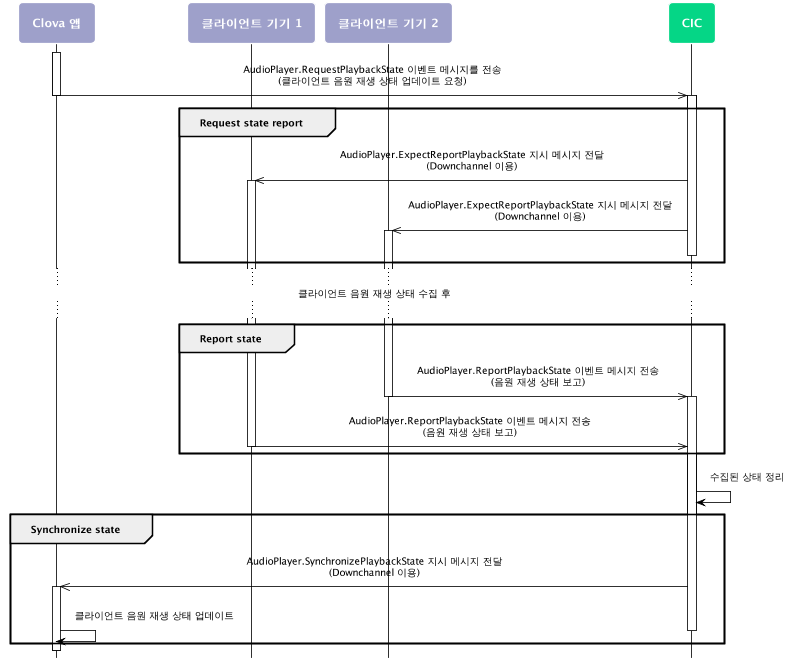
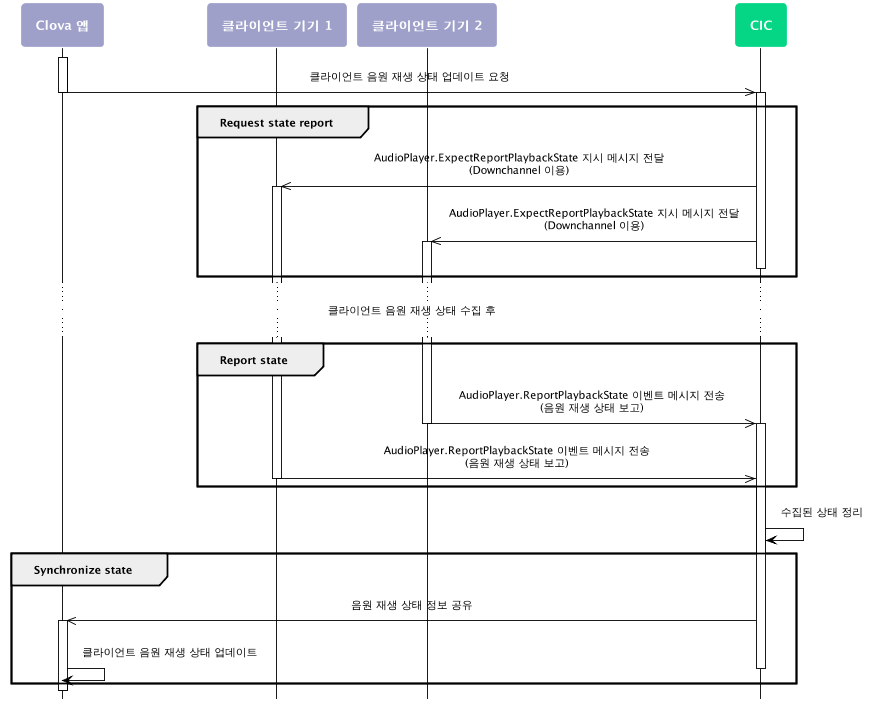
Apply conditional content for Clova app exclusive specification.
Former-commit-id: a7ee2e3696418add6cd44a5f21b69553e90da479 [formerly be5d0ca43ed55bfa67b8e9b32bf50e84269a3fc0]
Former-commit-id: 14217f2a47e1bdb42763026ed2de5a203d8245f7

diff --git a/ko/CIC/References/CICInterface/TemplateRuntime.md b/ko/CIC/References/CICInterface/TemplateRuntime.md
@@ -41,7 +41,7 @@ TemplateRuntime 인터페이스는 클라이언트나 CIC가 미디어 플레이
 * [`TemplateRuntime.RequestPlayerInfo`](#RequestPlayerInfo)
 
 ## LikeCommandIssued event {#LikeCommandIssued}
-사용자가 클라이언트 기기에서 미디어 플레이어에서 특정 미디어에 대해 좋아요 버튼(Like)을 누른 경우 클라이언트는 이 이벤트 메시지를 CIC에게 전송해야 합니다. 이 이벤트 메시지를 받은 Clova는 상황에 맞는 지시 메시지를 클라이언트에게 전송합니다.
+사용자가 클라이언트 기기에서 미디어 플레이어에서 특정 미디어에 대해 좋아요 버튼(Like)을 누른 경우 클라이언트는 이 이벤트 메시지를 CIC에게 전송해야 합니다. 이 이벤트 메시지를 받은 CIC는 상황에 맞는 지시 메시지를 클라이언트에게 전송합니다.
 
 
 ### Context fields
@@ -93,14 +93,7 @@ TemplateRuntime 인터페이스는 클라이언트나 CIC가 미디어 플레이
 
 ## RenderPlayerInfo directive {#RenderPlayerInfo}
 
-CIC가 클라이언트에게 미디어 플레이어에 표시할 재생 목록, 앨범 이미지, 가사와 같은 재생 메타 정보를 전달하고 이를 표시하도록 지시합니다. 다음과 같이 두 가지 상황에 이 지시 메시지가 전달됩니다.
-
-* 사용자가 음악 재생을 요청한 경우
-* 클라이언트가 재생 메타 정보를 요청한 경우
-
-사용자가 음악 재생을 요청한 경우 클라이언트는 [`AudioPlayer.Play`]() 지시 메시지와 함께 `TemplateRuntime.RenderPlayerInfo` 지시 메시지를 수신하게 됩니다. [`AudioPlayer.Play`](/CIC/References/CICInterface/AudioPlayer.md#Play) 지시 메시지는 재생해야 할 미디어 스트림 정보를 가지고 있으며, `TemplateRuntime.RenderPlayerInfo` 지시 메시지는 재생해야 하는 미디어와 추후 재생해야 하는 미디어의 재생 메타 정보를 담고 있습니다. 클라이언트는 `TemplateRuntime.RenderPlayerInfo` 지시 메시지의 재생 메타 정보를 사용자에게 제공하므로써 재생 목록 보여줄 수 있을 뿐만 아니라 사용자가 목록에 있는 특정 미디어를 요청하거나 좋아요([`TemplateRuntime.LikeCommandIssued`](#LikeCommandIssued)), 좋아요 취소([`TemplateRuntime.UnlikeCommandIssued`](#UnlikeCommandIssued))와 같은 동작을 수행할 때 이를 처리할 수 있는 기반 데이터를 제공합니다.
-
-원격 제어 등을 위해 미디어 콘텐츠를 직접 재생하고 있는 클라이언트가 아니더라도 [`TemplateRuntime.RequestPlayerInfo`](#RequestPlayerInfo)재생 메타 정보를 CIC에 요청할 수 있습니다.
+CIC가 클라이언트에게 미디어 플레이어에 표시할 재생 목록, 앨범 이미지, 가사와 같은 재생 메타 정보를 전달하고 이를 표시하도록 지시합니다. 사용자가 음악 재생을 요청한 경우 클라이언트는 [`AudioPlayer.Play`](/CIC/References/CICInterface/AudioPlayer.md#Play) 지시 메시지를 받아 미디어를 재생하게 됩니다. 이때, 디스플레이 장치가 있는 클라이언트라면 필요에 따라 미디어 플레이어에 재생 관련 정보를 표현해야 할 수 있습니다. 이때, [`TemplateRuntime.RequestPlayerInfo`](#RequestPlayerInfo) 이벤트 메시지를 통해 재생 메타 정보를 CIC에 요청할 수 있으며, `TemplateRuntime.RenderPlayerInfo` 지시 메시지를 수신할 수 있습니다. `TemplateRuntime.RenderPlayerInfo` 지시 메시지는 현재 재생해야 하는 미디어 콘텐츠와 추후 재생해야 하는 미디어 콘텐츠의 재생 메타 정보를 담고 있습니다. 클라이언트는 `TemplateRuntime.RenderPlayerInfo` 지시 메시지의 재생 메타 정보를 사용자에게 제공하므로써 현재 재생 미디어의 메타 정보 및 재생 목록을 표시할 수 있습니다. 뿐만 아니라 사용자가 목록에 있는 특정 미디어를 재생하도록 요청하거나 좋아요([`TemplateRuntime.LikeCommandIssued`](#LikeCommandIssued)), 좋아요 취소([`TemplateRuntime.UnlikeCommandIssued`](#UnlikeCommandIssued))와 같은 동작을 수행할 때 이를 처리할 수 있는 기반 데이터(`token`)를 제공합니다.
 
 ### Payload fields
 | 필드 이름       | 자료형    | 필드 설명                     | 포함 여부 |
@@ -238,7 +231,7 @@ CIC가 클라이언트에게 미디어 플레이어에 표시할 재생 목록, 
 * [`TemplateRuntime.UnlikeCommandIssued`](#UnlikeCommandIssued)
 
 ## RequestPlayerInfoIssued event {#RequestPlayerInfoIssued}
-클라이언트가 미디어 플레이어에 표시할 재생 목록, 앨범 이미지, 가사와 같은 재생 메타 정보를 CIC에게 요청합니다. 이 이벤트 메시지를 CIC에게 전송하면 Clova는 [`TemplateRuntime.RenderPlayerInfo`](#RenderPlayerInfo) 지시 메시지를 클라이언트에게 전송합니다.
+클라이언트가 미디어 플레이어에 표시할 재생 목록, 앨범 이미지, 가사와 같은 재생 메타 정보를 CIC에게 요청합니다. 이 이벤트 메시지를 CIC에게 전송하면 CIC는 [`TemplateRuntime.RenderPlayerInfo`](#RenderPlayerInfo) 지시 메시지를 클라이언트에게 전송합니다.
 
 
 ### Context fields
@@ -292,7 +285,7 @@ CIC가 클라이언트에게 미디어 플레이어에 표시할 재생 목록, 
 * [`TemplateRuntime.RenderPlayerInfo`](#RenderPlayerInfo)
 
 ## UnlikeCommandIssued event {#UnlikeCommandIssued}
-사용자가 클라이언트 기기에서 미디어 플레이어에서 특정 미디어에 대해 좋아요 취소 버튼(Unlike)을 누른 경우 클라이언트는 이 이벤트 메시지를 CIC에게 전송해야 합니다. 이 이벤트 메시지를 받은 Clova는 상황에 맞는 지시 메시지를 클라이언트에게 전송합니다.
+사용자가 클라이언트 기기에서 미디어 플레이어에서 특정 미디어에 대해 좋아요 취소 버튼(Unlike)을 누른 경우 클라이언트는 이 이벤트 메시지를 CIC에게 전송해야 합니다. 이 이벤트 메시지를 받은 CIC는 상황에 맞는 지시 메시지를 클라이언트에게 전송합니다.
 
 
 ### Context fields

diff --git a/ko/CIC/References/CICInterface/Index_for_Events.md b/ko/CIC/References/CICInterface/Index_for_Events.md
@@ -6,7 +6,7 @@
 | Alerts            | [`AlertStopped`](/CIC/References/CICInterface/Alerts.md#AlertStopped)                 | 클라이언트가 알람이 중지되었음을 CIC로 보고하기 위해 사용됩니다. |
 | Alerts            | [`DeleteAlertFailed`](/CIC/References/CICInterface/Alerts.md#DeleteAlertFailed)       | 클라이언트가 클라이언트에 설정된 특정 알람을 삭제하는데 실패했음을 CIC로 보고하기 위해 사용됩니다. |
 | Alerts            | [`DeleteAlertSucceeded`](/CIC/References/CICInterface/Alerts.md#DeleteAlertSucceeded) | 클라이언트가 클라이언트에 설정된 특정 알람을 삭제하는데 성공했음을 CIC로 보고하기 위해 사용됩니다. |
-| Alerts            | [`RequestAlertStop`](/CIC/References/CICInterface/Alerts.md#RequestAlertStop)         | 클라이언트가 현재 울리고 있는 알람을 중지하도록 Clova에게 요청할 때 사용됩니다.  |
+| Alerts            | [`RequestAlertStop`](/CIC/References/CICInterface/Alerts.md#RequestAlertStop)         | 클라이언트가 현재 울리고 있는 알람을 중지하도록 CIC에게 요청할 때 사용됩니다.  |
 | Alerts            | [`RequestSynchronizeAlert`](/CIC/References/CICInterface/Alerts.md#RequestSynchronizeAlert) | 클라이언트가 Clova의 클라우드 환경에 저장된 사용자의 알람 정보를 동기화해야 할 때 이 이벤트 메시지를 CIC로 전송합니다. |
 | Alerts            | [`SetAlertFailed`](/CIC/References/CICInterface/Alerts.md#SetAlertFailed)             | 클라이언트가 특정 알람을 추가 또는 수정하는데 실패했음을 CIC로 보고하기 위해 사용됩니다. |
 | Alerts            | [`SetAlertSucceeded`](/CIC/References/CICInterface/Alerts.md#SetAlertSucceeded)       | 클라이언트가 특정 알람을 추가 또는 수정하는데 성공했음을 CIC로 보고하기 위해 사용됩니다. |
@@ -19,8 +19,8 @@
 | AudioPlayer       | [`ProgressReportIntervalPassed`](/CIC/References/CICInterface/AudioPlayer.md#ProgressReportPositionPassed)| 오디오 스트림 재생이 시작된 후 지정된 간격마다 현재 재생 상태([`AudioPlayer.PlaybackState`](/CIC/References/Context_Objects.md#PlaybackState))를 CIC로 보고하기 위해 사용됩니다. 각 오디오 스트림의 보고 간격은 [`AudioPlayer.Play`](/CIC/References/CICInterface/AudioPlayer.md#Play) 지시 메시지가 클라이언트로 전달될 때 확인할 수 있습니다.|
 | AudioPlayer       | [`ProgressReportPositionPassed`](/CIC/References/CICInterface/AudioPlayer.md#ProgressReportPositionPassed) | 오디오 스트림 재생이 시작된 후 지정된 보고 시점에 현재 재생 상태([`AudioPlayer.PlaybackState`](/CIC/References/Context_Objects.md#PlaybackState))를 CIC로 보고하기 위해 사용됩니다. 각 오디오 스트림의 보고 시점은 [`AudioPlayer.Play`](/CIC/References/CICInterface/AudioPlayer.md#Play) 지시 메시지가 클라이언트로 전달될 때 확인할 수 있습니다.|
 | AudioPlayer       | [`ReportPlaybackState`](/CIC/References/CICInterface/AudioPlayer.md#ReportPlaybackState) | 클라이언트의 현재 음원 재생 상태를 CIC로 보고합니다. 클라이언트가 CIC로부터 [`ExpectReportPlaybackState`](/CIC/References/CICInterface/AudioPlayer.md#ExpectReportPlaybackState) 지시 메시지를 받은 경우 `AudioPlayer.ReportPlaybackState` 이벤트 메시지를 CIC로 전송해야 합니다.  |
-| AudioPlayer       | [`RequestPlaybackState`](/CIC/References/CICInterface/AudioPlayer.md#RequestPlaybackState) | 클라이언트의 음원 재생 상태를 CIC에게 요청합니다. CIC는 `AudioPlayer.ReqeustPlaybackState` 이벤트 메시지를 전달받으면 사용자 계정에 등록된 모든 또는 특정 클라이언트에게 [`AudioPlayer.ExpectReportPlaybackState`](/CIC/References/CICInterface/AudioPlayer.md#ExpectReportPlaybackState) 지시 메시지를 전송합니다.  |
-| AudioPlayer       | [`StreamRequested`](/CIC/References/CICInterface/AudioPlayer.md#StreamRequested) | 오디오 스트림 재생을 위해 CIC로 스트리밍 URL과 같은 추가 정보를 요청하는 이벤트 메시지입니다. |
+{% if book.TargetReaderType == "Internal" %}| AudioPlayer       | [`RequestPlaybackState`](/CIC/References/CICInterface/AudioPlayer.md#RequestPlaybackState) | 클라이언트의 음원 재생 상태를 CIC에게 요청합니다. CIC는 `AudioPlayer.ReqeustPlaybackState` 이벤트 메시지를 전달받으면 사용자 계정에 등록된 모든 또는 특정 클라이언트에게 [`AudioPlayer.ExpectReportPlaybackState`](/CIC/References/CICInterface/AudioPlayer.md#ExpectReportPlaybackState) 지시 메시지를 전송합니다.  |
+| AudioPlayer       | [`StreamRequested`](/CIC/References/CICInterface/AudioPlayer.md#StreamRequested) | 오디오 스트림 재생을 위해 CIC로 스트리밍 URL과 같은 추가 정보를 요청하는 이벤트 메시지입니다. |{% else %}| AudioPlayer       | [`StreamRequested`](/CIC/References/CICInterface/AudioPlayer.md#StreamRequested) | 오디오 스트림 재생을 위해 CIC로 스트리밍 URL과 같은 추가 정보를 요청하는 이벤트 메시지입니다. |{% endif %}
 | Clova              | [`ProcessDelegatedEvent`](/CIC/References/CICInterface/Clova.md#ProcessDelegatedEvent)                          | 클라이언트가 [위임된 사용자 요청](/CIC/Guides/Interact_with_CIC.md#HandleDelegation)에 대한 결과를 CIC로부터 받기 위해 사용됩니다.  |
 | DeviceControl     | [`ActionExecuted`](/CIC/References/CICInterface/DeviceControl.md#ActionExecuted) | 클라이언트가 기기 제어를 정상적으로 수행했음을 보고하기 위해 사용됩니다.                               |
 | DeviceControl     | [`ActionFailed`](/CIC/References/CICInterface/DeviceControl.md#ActionFailed) | 클라이언트는 기기 제어를 수행할 수 없거나 수행에 실패했음을 CIC에 보고하기 위해 사용됩니다.                   |

diff --git a/ko/CIC/References/CICInterface/Index_for_Directives.md b/ko/CIC/References/CICInterface/Index_for_Directives.md
@@ -10,7 +10,8 @@
 | AudioPlayer        | [`ExpectReportPlaybackState`](/CIC/References/CICInterface/AudioPlayer.md#ExpectReportPlaybackState) | 클라이언트에게 현재 재생 상태를 보고하도록 지시합니다. 클라이언트는 이 지시 메시지를 받으면 [`AudioPlayer.ReportPlaybackState`](/CIC/References/CICInterface/AudioPlayer.md#ReportPlaybackState) 이벤트 메시지를 CIC로 전송해야 합니다. |
 | AudioPlayer        | [`Play`](/CIC/References/CICInterface/AudioPlayer.md#Play)                      | 클라이언트에게 특정 오디오 스트림을 재생하거나 재생 대기열에 추가하도록 지시합니다.                          |
 | AudioPlayer        | [`StreamDeliver`](/CIC/References/CICInterface/AudioPlayer.md#StreamDeliver)    | [`AudioPlayer.StreamRequested`](/CIC/References/CICInterface/AudioPlayer.md#StreamRequested) 이벤트 메시지의 응답이며, 실제 음악 재생이 가능한 오디오 스트림 정보를 수신해야 할 때 사용합니다. |
-| Clova              | [`ExpectLogin`](/CIC/References/CICInterface/Clova.md#ExpectLogin)              | 클라이언트에게 사용자로부터 {{ book.OrientedService }} 계정 인증(login)을 받도록 지시합니다.          |
+{% if book.TargetReaderType == "Internal" %}| AudioPlayer        | [`SynchronizePlaybackState`](/CIC/References/CICInterface/AudioPlayer.md#SynchronizePlaybackState) | 클라이언트의 음원 재생 상태를 동기화하도록 지시합니다. [`AudioPlayer.RequestPlaybackState`](#/CIC/References/CICInterface/AudioPlayer.md#RequestPlaybackState) 이벤트 메시지를 전송했던 클라이언트는 `AudioPlayer.SynchronizePlaybackState` 지시 메시지를 수신하게 됩니다. |
+| Clova              | [`ExpectLogin`](/CIC/References/CICInterface/Clova.md#ExpectLogin)              | 클라이언트에게 사용자로부터 {{ book.OrientedService }} 계정 인증(login)을 받도록 지시합니다.          |{% else %}| Clova              | [`ExpectLogin`](/CIC/References/CICInterface/Clova.md#ExpectLogin)              | 클라이언트에게 사용자로부터 {{ book.OrientedService }} 계정 인증(login)을 받도록 지시합니다.          |{% endif %}
 | Clova              | [`FinishExtension`](/CIC/References/CICInterface/Clova.md#FinishExtension)      | 클라이언트에게 특정 Extension을 종료하도록 지시합니다.                                             |
 | Clova              | [`HandleDelegatedEvent`](/CIC/References/CICInterface/Clova.md#HandleDelegatedEvent) | 클라이언트에게 Clova 앱으로부터 [위임된 사용자의 요청을 처리](/CIC/Guides/Interact_with_CIC.md#HandleDelegation)하도록 지시합니다.   |
 | Clova              | [`Hello`](/CIC/References/CICInterface/Clova.md#Hello)                          | 클라이언트에게 downchannel 연결 설정이 완료되었음을 알립니다.                                       |

diff --git a/ko/CEK/References/ClovaHomeInterface/Error_Interfaces.md b/ko/CEK/References/ClovaHomeInterface/Error_Interfaces.md
@@ -5,7 +5,7 @@ Clova Home extension이 CEK에게 오류를 반환할 때 사용되는 인터페
 | 메시지 이름         | 메시지 타입  | 메시지 설명                                   |
 |------------------|-----------|---------------------------------------------|
 | [`ConditionsNotMetError`](#ConditionsNotMetError)          | Error Response | 대상 기기가 동작하기 위해 특정 조건(상태)이 충족되지 않은 경우 CEK에게 이 메시지를 응답으로 보냅니다. |
-| [`DeviceFailureError`](#DeviceFailureError)                | Error Response | 대상 기기에 결험이 발생하면 CEK에게 이 메시지를 응답으로 보냅니다.              |
+| [`DeviceFailureError`](#DeviceFailureError)                | Error Response | 대상 기기에 결함이 발생하면 CEK에게 이 메시지를 응답으로 보냅니다.              |
 | [`DriverInternalError`](#DriverInternalError)              | Error Response | 내부적인 오류가 발생하면 CEK에게 이 메시지를 응답으로 보냅니다.                |
 | [`ExpiredAccessTokenError`](#ExpiredAccessTokenError)      | Error Response | [사용자 계정 연결](/CEK/Guides/Link_User_Account.md) 시 [인증 서버](/CEK/Guides/Link_User_Account.md#BuildAuthServer)로부터 발급 받은 access token이 만료된 경우 CEK에게 이 메시지를 응답으로 보냅니다.  |
 | [`InvalidAccessTokenError`](#InvalidAccessTokenError)      | Error Response | 사용자가 사용 중인 access token에 대한 권한을 해제한 경우 CEK에게 이 메시지를 전달합니다.         |
@@ -51,7 +51,7 @@ Clova Home extension이 CEK에게 오류를 반환할 때 사용되는 인터페
 * [`NotSupportedInCurrentModeError`](#NotSupportedInCurrentModeError)
 
 ## DeviceFailureError {#DeviceFailureError}
-대상 기기에 결험이 발생하면 CEK에게 이 메시지를 응답으로 보냅니다. CEK가 이 메시지를 전달받으면 미리 준비된 오류 메시지를 클라이언트에 전달합니다.
+대상 기기에 결함이 발생하면 CEK에게 이 메시지를 응답으로 보냅니다. CEK가 이 메시지를 전달받으면 미리 준비된 오류 메시지를 클라이언트에 전달합니다.
 
 ### Payload fields
 

diff --git a/ko/README.md b/ko/README.md
@@ -24,10 +24,9 @@
       <td>v3.6</td><td>2018-04-02</td>
       <td>
         <ul>
-          <li>[CIC] <a href="/CIC/References/CICInterface/AudioPlayer.html">AudioPlayer</a> 네임스페이스에 총 4건의 메시지 스펙 추가 및 일부 필드 업데이트
+          <li>[CIC] <a href="/CIC/References/CICInterface/AudioPlayer.html">AudioPlayer</a> 네임스페이스에 메시지 스펙 추가 및 일부 필드 업데이트
             <ul>
-              <li><a href="/CIC/References/CICInterface/AudioPlayer.html#RequestPlaybackState">AudioPlayer.RequestPlaybackState</a>, <a href="/CIC/References/CICInterface/AudioPlayer.html#SynchronizePlaybackState">SynchronizePlaybackState</a> 이벤트 메시지 추가</li>
-              <li><a href="/CIC/References/CICInterface/AudioPlayer.html#ExpectReportPlaybackState">AudioPlayer.ExpectReportPlaybackState</a>, <a href="/CIC/References/CICInterface/AudioPlayer.html#ReportPlaybackState">AudioPlayer.ReportPlaybackState</a> 지시 메시지 추가</li>
+              <li><a href="/CIC/References/CICInterface/AudioPlayer.html#ExpectReportPlaybackState">AudioPlayer.ExpectReportPlaybackState</a> 지시 메시지, <a href="/CIC/References/CICInterface/AudioPlayer.html#ReportPlaybackState">AudioPlayer.ReportPlaybackState 이벤트 메시지</a>{% if book.TargetReaderType == "Internal" %}, <a href="/CIC/References/CICInterface/AudioPlayer.html#RequestPlaybackState">AudioPlayer.RequestPlaybackState</a> 이벤트 메시지, <a href="/CIC/References/CICInterface/AudioPlayer.html#SynchronizePlaybackState">SynchronizePlaybackState 지시 메시지</a>{% endif %} 추가</li>
               <li><a href="/CIC/References/CICInterface/AudioPlayer.html#Play">AudioPlayer.Play</a> 지시 메시지의 `payload` 필드 내용 업데이트</li>
               <li>ProgressReportXXX, PlayXXX 형식의 이름을 가진 이벤트 필드에 `token` 필드 값 필수로 추가</li>
             </ul>

diff --git a/ko/CIC/References/CICInterface/System.md b/ko/CIC/References/CICInterface/System.md
@@ -53,7 +53,7 @@ System 인터페이스는 Clova와 클라이언트 사이에서 클라이언트 
 * [`System.SynchronizeState`](/CIC/References/CICInterface/System.md#SynchronizeState)
 
 ## SynchronizeState directive {#SynchronizeState}
-클라이언트에게 `payload` 필드에 있는 데이터를 동기화하도록 지시합니다. 클라이언트는 Clova로부터 전달된 데이터에 맞게 클라이언트에 설정된 값을 변경해야 합니다.
+클라이언트에게 `payload` 필드에 있는 데이터를 동기화하도록 지시합니다. 클라이언트는 CIC로부터 전달된 데이터에 맞게 클라이언트에 설정된 값을 변경해야 합니다.
 
 ### Payload fields
 
